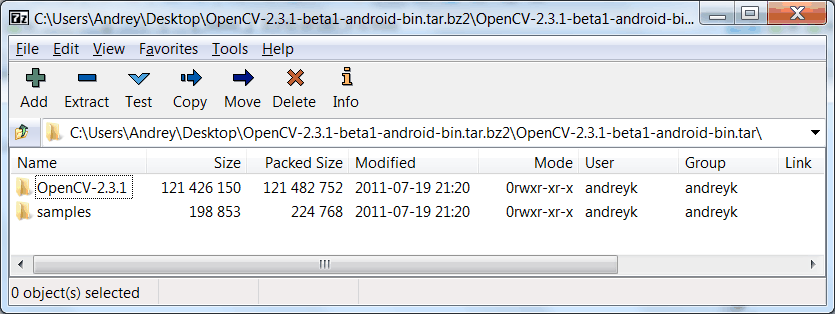
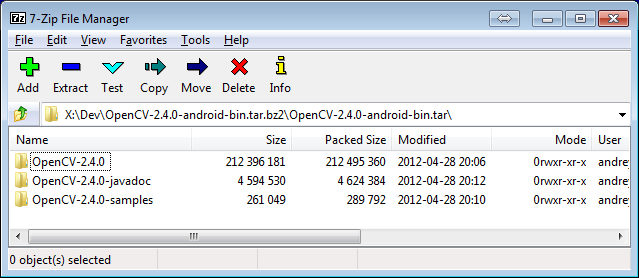
tutorial updated
git-svn-id: http://code.opencv.org/svn/opencv/trunk/opencv@8651 c5418bc3-7546-4aae-8bad-fa6f2f3e53e6

diff --git a/doc/tutorials/introduction/android_binary_package/android_binary_package.rst b/doc/tutorials/introduction/android_binary_package/android_binary_package.rst
@@ -5,14 +5,15 @@
 Using Android binary package with Eclipse
 *****************************************
 
-This tutorial was tested using Ubuntu 10.04 and Windows 7 SP1 operating systems. Nevertheless, it should also work on any other **OS**\ es supported by Android SDK (including Mac OS X). If you encounter errors after following the steps described here, feel free to contact us via *android-opencv* discussion group https://groups.google.com/group/android-opencv/ and we will try to help you.
+This tutorial was tested using Ubuntu 10.04 and Windows 7 SP1 operating systems. 
+Nevertheless, it should also work on any other **OS**\ es supported by Android SDK (including Mac OS X). 
+If you encounter errors after following the steps described here, feel free to contact us via `android-opencv <https://groups.google.com/group/android-opencv/>`_ discussion group and we will try to help you.
 
 Quick environment setup for Android development
 ===============================================
 
-If you are making a clean environment installation then you can try **T**\ egra **A**\ ndroid **D**\ evelopment **P**\ ack (*TADP*) released by *NVIDIA*:
-
-  http://developer.nvidia.com/tegra-android-development-pack
+If you are making a clean environment installation then you can try `Tegra Android Development Pack <http://developer.nvidia.com/tegra-android-development-pack>`_ 
+(**TADP**) released by **NVIDIA**:
 
 It will cover all of the environment set up automatically and you can go to the next step :ref:`Get_the_OpenCV_package_for_Android_development` right after automatic setup.
 
@@ -45,9 +46,10 @@ You need the following tools to be installed:
 
 #. **Sun JDK 6**
 
-   Visit http://www.oracle.com/technetwork/java/javase/downloads/index.html and download installer for your OS.
+   Visit `Java SE Downloads page <http://www.oracle.com/technetwork/java/javase/downloads/>`_ and download installer for your OS.
 
-   Here is a detailed :abbr:`JDK (Java Development Kit)` installation guide for Ubuntu and Mac OS: http://source.android.com/source/initializing.html#installing-the-jdk (only JDK sections are applicable for OpenCV)
+   Here is a detailed :abbr:`JDK (Java Development Kit)` `installation guide <http://source.android.com/source/initializing.html#installing-the-jdk>`_ 
+   for Ubuntu and Mac OS (only JDK sections are applicable for OpenCV)
 
    .. note:: OpenJDK is not usable for Android development because Android SDK supports only Sun JDK.
         If you use Ubuntu, after installation of Sun JDK you should run the following command to set Sun java environment:
@@ -60,7 +62,7 @@ You need the following tools to be installed:
 
    Get the latest Android SDK from http://developer.android.com/sdk/index.html
 
-   Here is Google's install guide for SDK http://developer.android.com/sdk/installing.html
+   Here is Google's `install guide <http://developer.android.com/sdk/installing.html>`_ for SDK.
 
    .. note:: If you choose SDK packed into Windows installer, then you should have 32-bit JRE installed. It is not needed for Android development, but installer is x86 application and requires 32-bit Java runtime.
 
@@ -80,36 +82,34 @@ You need the following tools to be installed:
 
    You need the following SDK components to be installed:
 
-   * *Android SDK Tools, revision12* or newer
+   * *Android SDK Tools, revision14* or newer
 
      Older revisions should also work, but they are not recommended.
 
-   * *SDK Platform Android 2.2, API 8, revision 2* (also known as  *android-8*)
+   * *SDK Platform Android 3.0, API 11* (also known as  *android-11*)
 
-     This is minimal platform supported by OpenCV Java API. And it is set as default for OpenCV distribution. It is possible to use newer platform with OpenCV package, but it requires to edit OpenCV project settings.
-
+     The minimal platform supported by OpenCV Java API is **Android 2.2** (API 8). This is also the minimum API Level required for the provided samples to run.
+     See the ``<uses-sdk android:minSdkVersion="8"/>`` tag in their **AndroidManifest.xml** file.
+     But for successful compilation of some samples the **target** platform should be set to Android 3.0 (API 11) or higher. It will not block them from running on  Android 2.2+.
+     
      .. image:: images/android_sdk_and_avd_manager.png
-        :height: 400px 
-        :alt: Android SDK and AVD manager
+        :height: 500px 
+        :alt: Android SDK Manager
         :align: center
      
-     See `Adding SDK Components
-     <http://developer.android.com/sdk/adding-components.html>`_ for help with installing/updating SDK components.
+     See `Adding SDK Components  <http://developer.android.com/sdk/adding-components.html>`_ for help with installing/updating SDK components.
 
 #. **Eclipse IDE**
 
-   Check the `Android SDK System Requirements
-   <http://developer.android.com/sdk/requirements.html>`_ document for a list of Eclipse versions that are compatible with the Android SDK. 
-   For OpenCV 2.4.0 we recommend Eclipse 3.6 (Helios) or later versions. They work well for OpenCV under both Windows and Linux.
+   Check the `Android SDK System Requirements <http://developer.android.com/sdk/requirements.html>`_ document for a list of Eclipse versions that are compatible with the Android SDK. 
+   For OpenCV 2.4.0 we recommend Eclipse 3.7 (Indigo) or later versions. They work well for OpenCV under both Windows and Linux.
    
-   If you have no Eclipse installed, you can download it from this location:
-    
-      http://www.eclipse.org/downloads/ 
+   If you have no Eclipse installed, you can get it from the `download page  <http://www.eclipse.org/downloads/>`_.
       
 #. **ADT plugin for Eclipse**
 
-   This instruction is copied from http://developer.android.com/sdk/eclipse-adt.html#downloading
-   . Please, visit that page if you have any troubles with ADT plugin installation.
+   This instruction is copied from `Android Developers site <http://developer.android.com/sdk/eclipse-adt.html>`_.
+   Please, visit `that page <http://developer.android.com/sdk/eclipse-adt.html#downloading>`_ if you have any troubles with :abbr:`ADT(Android Development Tools)` plugin installation.
 
    Assuming that you have Eclipse IDE installed, as described above, follow these steps to download and install the ADT plugin:
 
@@ -136,7 +136,7 @@ You need the following tools to be installed:
 Get the OpenCV package for Android development
 ==============================================
 
-#. Go to the http://sourceforge.net/projects/opencvlibrary/files/opencv-android/ and download the latest available version. Currently it is |opencv_android_bin_pack_url|_
+#. Go to the `OpenCV dowload page on SourceForge <http://sourceforge.net/projects/opencvlibrary/files/opencv-android/>`_ and download the latest available version. Currently it is |opencv_android_bin_pack_url|_
 
 #. Create new folder for Android+OpenCV development.
 
